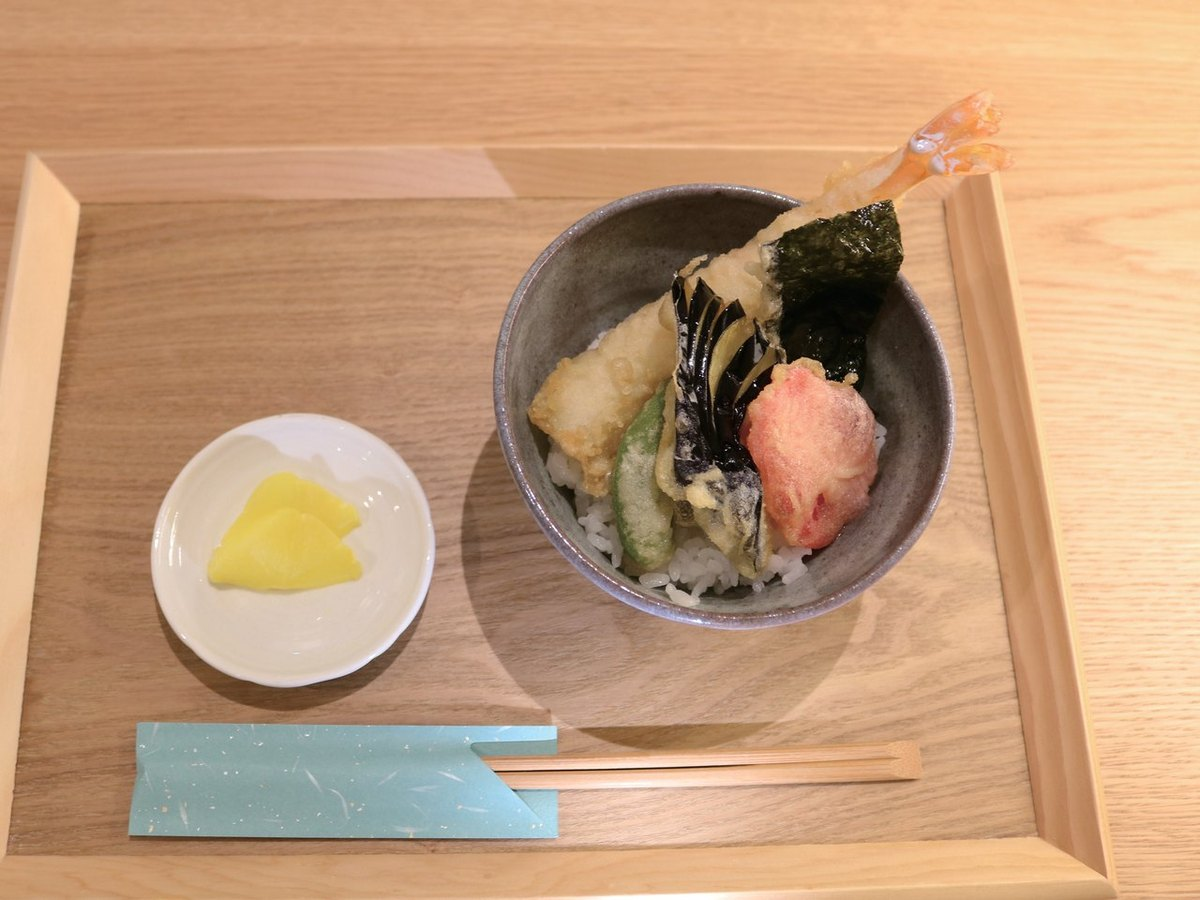
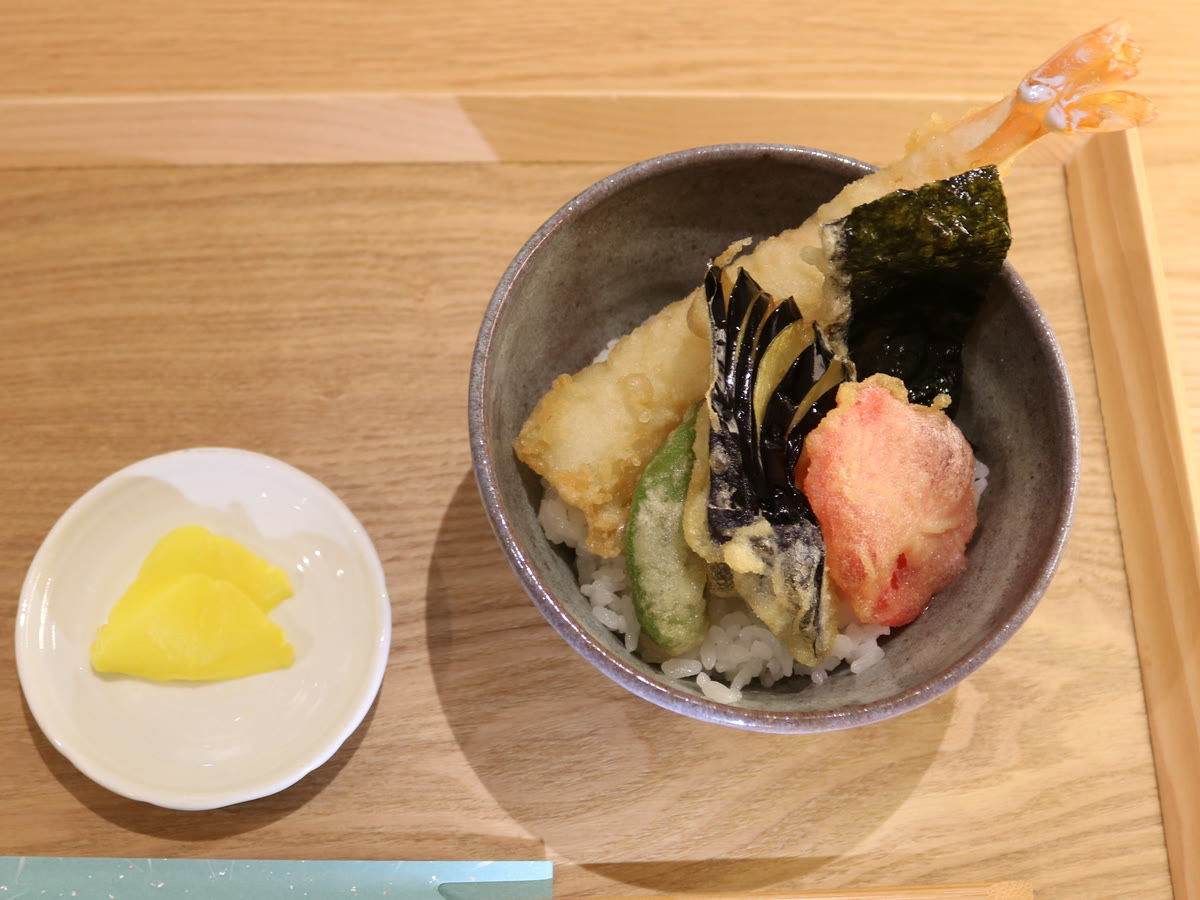
内観・外観を実写にし、料理写真を原本から作り直す
先方から店舗写真（内観4枚・外観2枚・料理24枚）を受領。

- D案で唯一の仮素材だった内観・外観の生成画像を実写に差し替え
  A/B/C案が参照しているため assets/img/ の生成画像はそのまま残す
- 料理10点を 6000x4000 の原本から4:3で切り直し
  鴨南蛮・ねぎそば・揚出し豆腐は器が見切れていたので引いた
  天ざるは tenzaru (5) の寄ったカットに変更
- 実写になった箇所から「（イメージ）」の注記を削除

diff --git a/pattern-d/access.html b/pattern-d/access.html
@@ -10,7 +10,7 @@
 <link rel="preconnect" href="https://fonts.gstatic.com" crossorigin>
 <link href="https://fonts.googleapis.com/css2?family=Shippori+Mincho+B1:wght@500;600;800&family=Zen+Kaku+Gothic+New:wght@400;500;700&display=swap" rel="stylesheet">
 <link rel="stylesheet" href="../assets/css/base.css">
-<link rel="stylesheet" href="style.css">
+<link rel="stylesheet" href="style.css?v=20260917">
 </head>
 <body>
 
@@ -93,7 +93,6 @@
             <a class="btn btn--primary" href="https://www.google.com/maps/dir/?api=1&amp;destination=%E5%85%B5%E5%BA%AB%E7%9C%8C%E5%B7%9D%E8%BE%BA%E9%83%A1%E7%8C%AA%E5%90%8D%E5%B7%9D%E7%94%BA%E6%9D%BE%E5%B0%BE%E5%8F%B01%E4%B8%81%E7%9B%AE2-1" target="_blank" rel="noopener">経路を調べる</a>
             <a class="btn btn--tel" href="tel:0727647366">☎ 072-764-7366</a>
           </div>
-          <p style="font-size:.88rem;color:var(--gray);margin-top:.9rem">※お料理の写真は店舗の看板データより。店内・外観の写真はイメージです（実店舗の撮影に差し替え予定）。</p>
         </div>
 
         <div>
@@ -101,9 +100,8 @@
             <div><dt>店名</dt><dd>そばこころ 日生中央店</dd></div>
             <div><dt>住所</dt><dd>〒666-0261　兵庫県川辺郡猪名川町松尾台1-2-1　日生中央サピエ 1F</dd></div>
             <div><dt>電話</dt><dd><a href="tel:0727647366">072-764-7366</a></dd></div>
-            <div><dt>電車</dt><dd>能勢電鉄日生線 日生中央駅（徒歩分数は確認中）</dd></div>
+            <div><dt>電車</dt><dd>能勢電鉄日生線 日生中央駅</dd></div>
             <div><dt>お車</dt><dd>日生中央サピエの駐車場をご利用ください</dd></div>
-            <div><dt>席数</dt><dd>確認中</dd></div>
             <div><dt>お支払い</dt><dd>現金・クレジットカード・電子マネー・各種QRコード決済</dd></div>
             <div><dt>ご予約</dt><dd>ご予約は承っておりません（先着順）</dd></div>
             <div><dt>設備</dt><dd>全席禁煙／お子様連れ可</dd></div>
@@ -120,10 +118,9 @@
         <h2 class="section__title">お越しの際は</h2>
         <p class="section__lead">日生中央サピエ1階です。<br>駅からも、お車でもお立ち寄りいただけます。</p>
       </div>
-      <!-- 【素材待ち】実店舗の内観・外観写真を受領したら差し替え -->
       <div class="gallery">
-        <figure><img src="../assets/img/exterior.jpg" alt="お店の入口" loading="lazy"><figcaption>お店の入口（イメージ）</figcaption></figure>
-        <figure><img src="../assets/img/interior.jpg" alt="店内" loading="lazy"><figcaption>店内の様子（イメージ）</figcaption></figure>
+        <figure><img src="../assets/img/photo/shop-exterior.jpg" alt="そばこころ 日生中央店の入口。若草色の暖簾がかかる" loading="lazy"><figcaption>お店の入口</figcaption></figure>
+        <figure><img src="../assets/img/photo/shop-interior.jpg" alt="そばこころ 日生中央店の店内。木のテーブル席が並ぶ" loading="lazy"><figcaption>店内の様子</figcaption></figure>
       </div>
       <p class="center"><a class="btn btn--outline" href="menu.html">お品書きを見る</a></p>
     </div>
@@ -148,7 +145,7 @@
       <a href="access.html">アクセス・営業時間</a>
     </nav>
   </div>
-  <p class="footer__copy">© そばこころ　※本サイトはデザイン確認用のサンプルです</p>
+  <p class="footer__copy">© そばこころ</p>
 </footer>
 
 <div class="sp-cta">

diff --git a/pattern-d/index.html b/pattern-d/index.html
@@ -10,7 +10,7 @@
 <link rel="preconnect" href="https://fonts.gstatic.com" crossorigin>
 <link href="https://fonts.googleapis.com/css2?family=Shippori+Mincho+B1:wght@500;600;800&family=Zen+Kaku+Gothic+New:wght@400;500;700&display=swap" rel="stylesheet">
 <link rel="stylesheet" href="../assets/css/base.css">
-<link rel="stylesheet" href="style.css">
+<link rel="stylesheet" href="style.css?v=20260917">
 </head>
 <body>
 
@@ -58,7 +58,7 @@
     <div class="news__inner">
       <span class="news__label">お知らせ</span>
       <span class="news__date">2026.09.01</span>
-      <span class="news__text">【表示例】9月の休業日は店頭に掲示しています。<a href="access.html">営業時間を見る</a></span>
+      <span class="news__text">9月の休業日は店頭に掲示しています。<a href="access.html">営業時間を見る</a></span>
     </div>
   </div>
 
@@ -154,10 +154,9 @@
         <h2 class="section__title">店内のようす</h2>
         <p class="section__lead">日生中央サピエ1階。<br>おひとりでも、ご家族でも、どうぞ気軽に。</p>
       </div>
-      <!-- 【素材待ち】この2枚だけ生成画像の仮素材。実店舗の内観・外観写真を受領したら差し替え -->
       <div class="gallery">
-        <figure><img src="../assets/img/interior.jpg" alt="店内" loading="lazy"><figcaption>店内の様子（イメージ）</figcaption></figure>
-        <figure><img src="../assets/img/exterior.jpg" alt="外観" loading="lazy"><figcaption>お店の入口（イメージ）</figcaption></figure>
+        <figure><img src="../assets/img/photo/shop-interior.jpg" alt="そばこころ 日生中央店の店内。木のテーブル席が並ぶ" loading="lazy"><figcaption>店内の様子</figcaption></figure>
+        <figure><img src="../assets/img/photo/shop-exterior.jpg" alt="そばこころ 日生中央店の入口。若草色の暖簾がかかる" loading="lazy"><figcaption>お店の入口</figcaption></figure>
       </div>
       <p class="center"><a class="btn btn--outline" href="access.html">アクセス・営業時間を見る</a></p>
     </div>
@@ -182,7 +181,7 @@
       <a href="access.html">アクセス・営業時間</a>
     </nav>
   </div>
-  <p class="footer__copy">© そばこころ　※本サイトはデザイン確認用のサンプルです</p>
+  <p class="footer__copy">© そばこころ</p>
 </footer>
 
 <div class="sp-cta">
